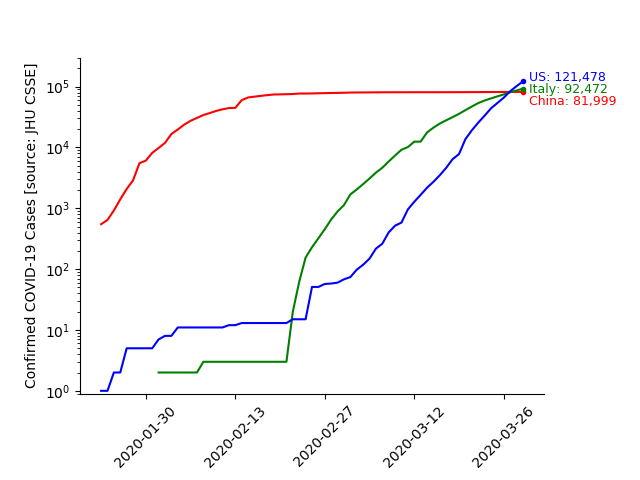
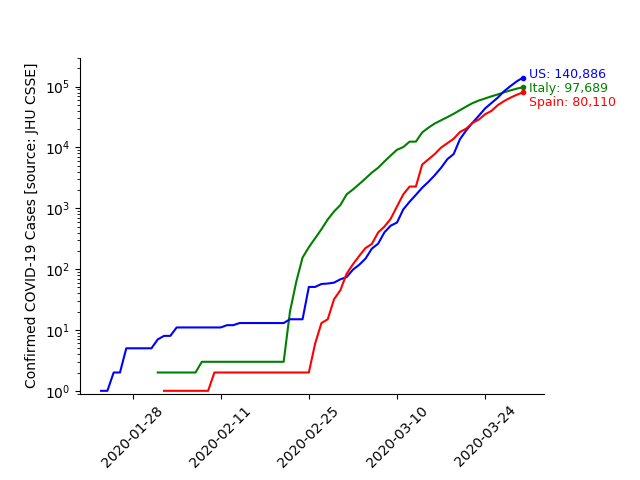
2020-03-29 update

diff --git a/plot_cases.py b/plot_cases.py
@@ -33,9 +33,10 @@ for ii in ts_confirmed.columns[4:]:
 
 # plot country comparisons
 fig, ax = plt.subplots()
-plt.semilogy(dates[np.where(cases_cn>0)[0][0]:], cases_cn[cases_cn>0], 'r-')
-plt.semilogy(dates[-1], cases_cn[-1], 'r.')
-ax.annotate('China: {:,}'.format(cases_cn[-1]), (dates[-1]+dt.timedelta(days=1), 0.6*cases_cn[-1]), color='red', fontsize=9)
+
+#plt.semilogy(dates[np.where(cases_cn>0)[0][0]:], cases_cn[cases_cn>0], 'r-')
+#plt.semilogy(dates[-1], cases_cn[-1], 'r.')
+#ax.annotate('China: {:,}'.format(cases_cn[-1]), (dates[-1]+dt.timedelta(days=1), 0.6*cases_cn[-1]), color='red', fontsize=9)
 
 plt.semilogy(dates[np.where(cases_it>0)[0][0]:], cases_it[cases_it>0], 'g-')
 plt.semilogy(dates[-1], cases_it[-1], 'g.')
@@ -44,6 +45,10 @@ ax.annotate('Italy: {:,}'.format(cases_it[-1]), (dates[-1]+dt.timedelta(days=1),
 plt.semilogy(dates[np.where(cases_us>0)[0][0]:], cases_us[cases_us>0], 'b-')
 plt.semilogy(dates[-1], cases_us[-1], 'b.')
 ax.annotate('US: {:,}'.format(cases_us[-1]), (dates[-1]+dt.timedelta(days=1), 1.00*cases_us[-1]), color='blue', fontsize=9)
+
+plt.semilogy(dates[np.where(cases_es>0)[0][0]:], cases_es[cases_es>0], 'r-')
+plt.semilogy(dates[-1], cases_es[-1], 'r.')
+ax.annotate('Spain: {:,}'.format(cases_es[-1]), (dates[-1]+dt.timedelta(days=1), 0.6*cases_es[-1]), color='red', fontsize=9)
 
 #plt.semilogy(dates[np.where(cases_sk>0)[0][0]:], cases_sk[cases_sk>0], '.-', label='South Korea')
 #plt.semilogy(dates[np.where(cases_jp>0)[0][0]:], cases_jp[cases_jp>0], '.-', label='Japan')
